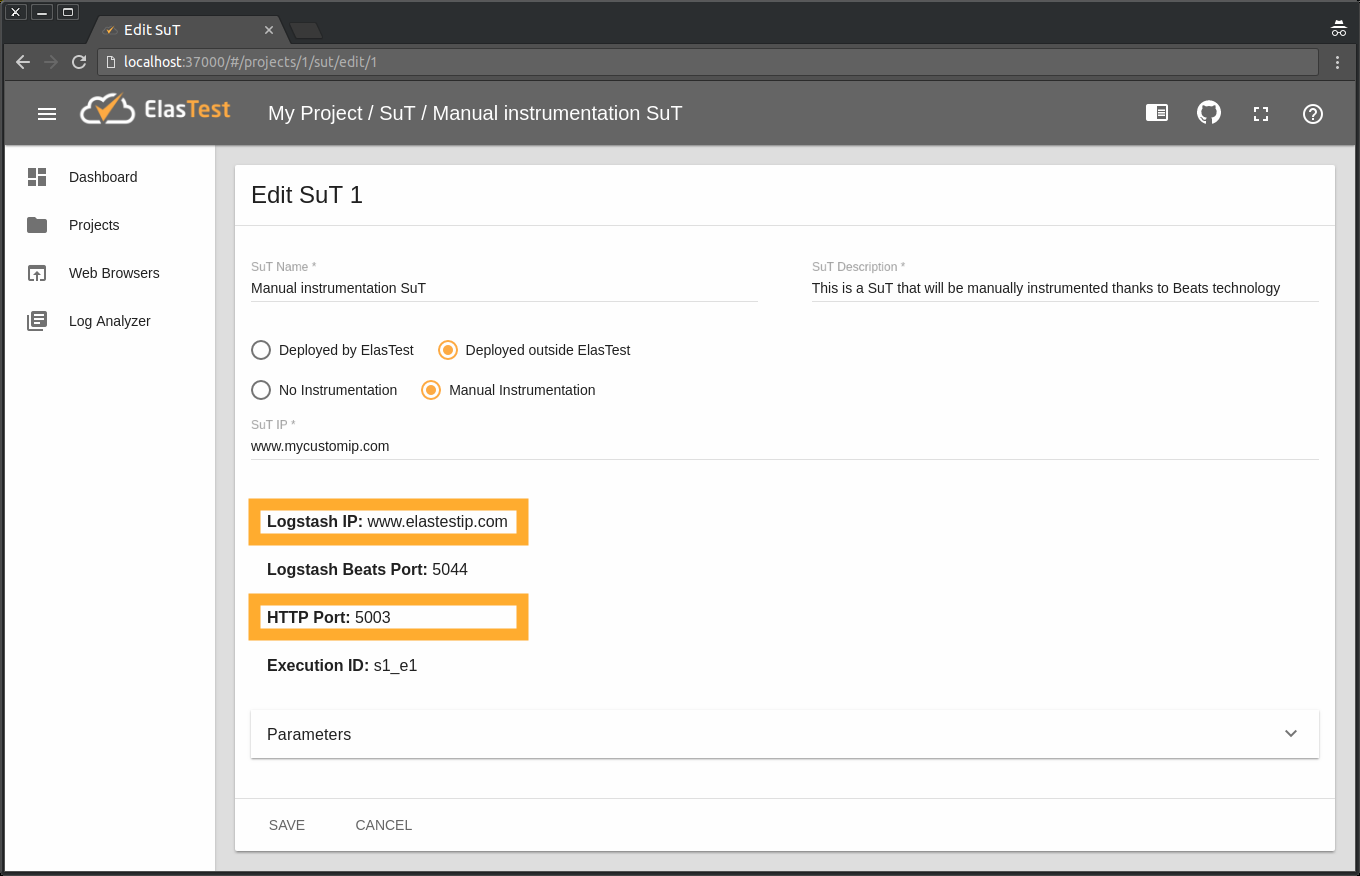
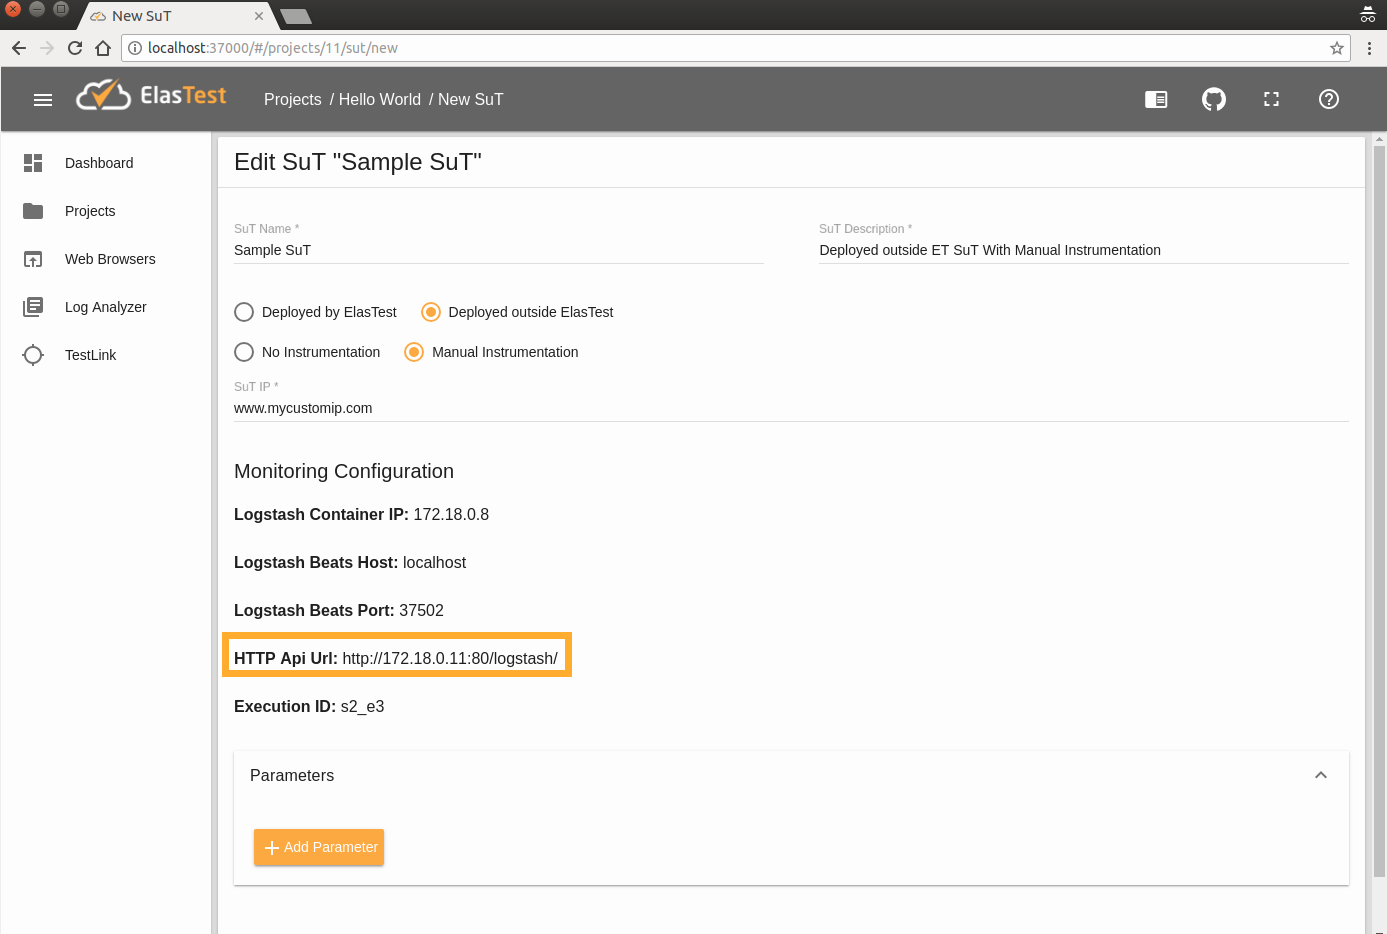
Updated monitoring documentation

Changed region(s): [[0.0, 0.0, 1.0, 1.0]]

diff --git a/docs/monitoring/custom.md b/docs/monitoring/custom.md
@@ -23,20 +23,16 @@ Value of environment variable *`ET_MON_LSHTTP_API`*.
 
 <h6 class="small-subtitle">IP of http request in a SuT deployed outside ElasTest</h6>
 
-The URL can be built with **Logstash IP** and **HTTP port** params, available from the SuT information page:
+The URL can be built with **HTTP Api Url** param, available from the SuT information page:
 
 <div class="docs-gallery more-margin-top inline-block">
     <a data-fancybox="gallery-2" href="/docs/monitoring/images/logstash_ip.png"><img class="img-responsive img-wellcome" src="/docs/monitoring/images/logstash_ip.png"/></a>
 </div>
 
-```text
-http://<logstash_ip>:<http_port>/
-```
-
 For to the image above, the URL where to send the post requests would be:
 
 ```text
-http://www.elastestip.com:5003/
+http://172.18.0.11:80/logstash/
 ```
 
 <br>
